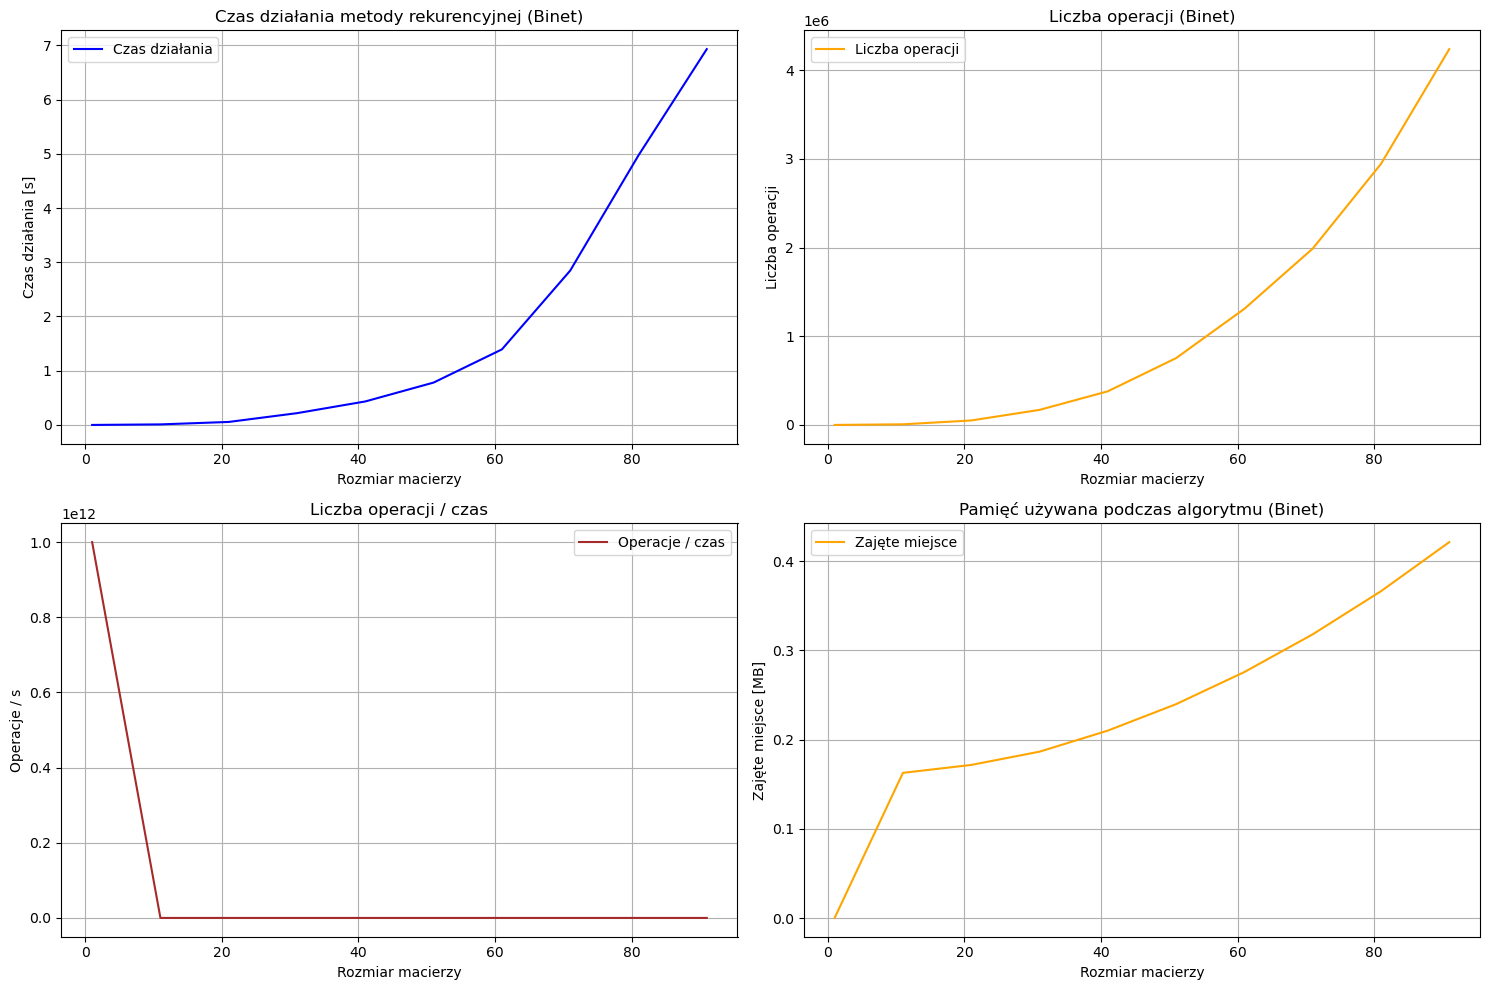
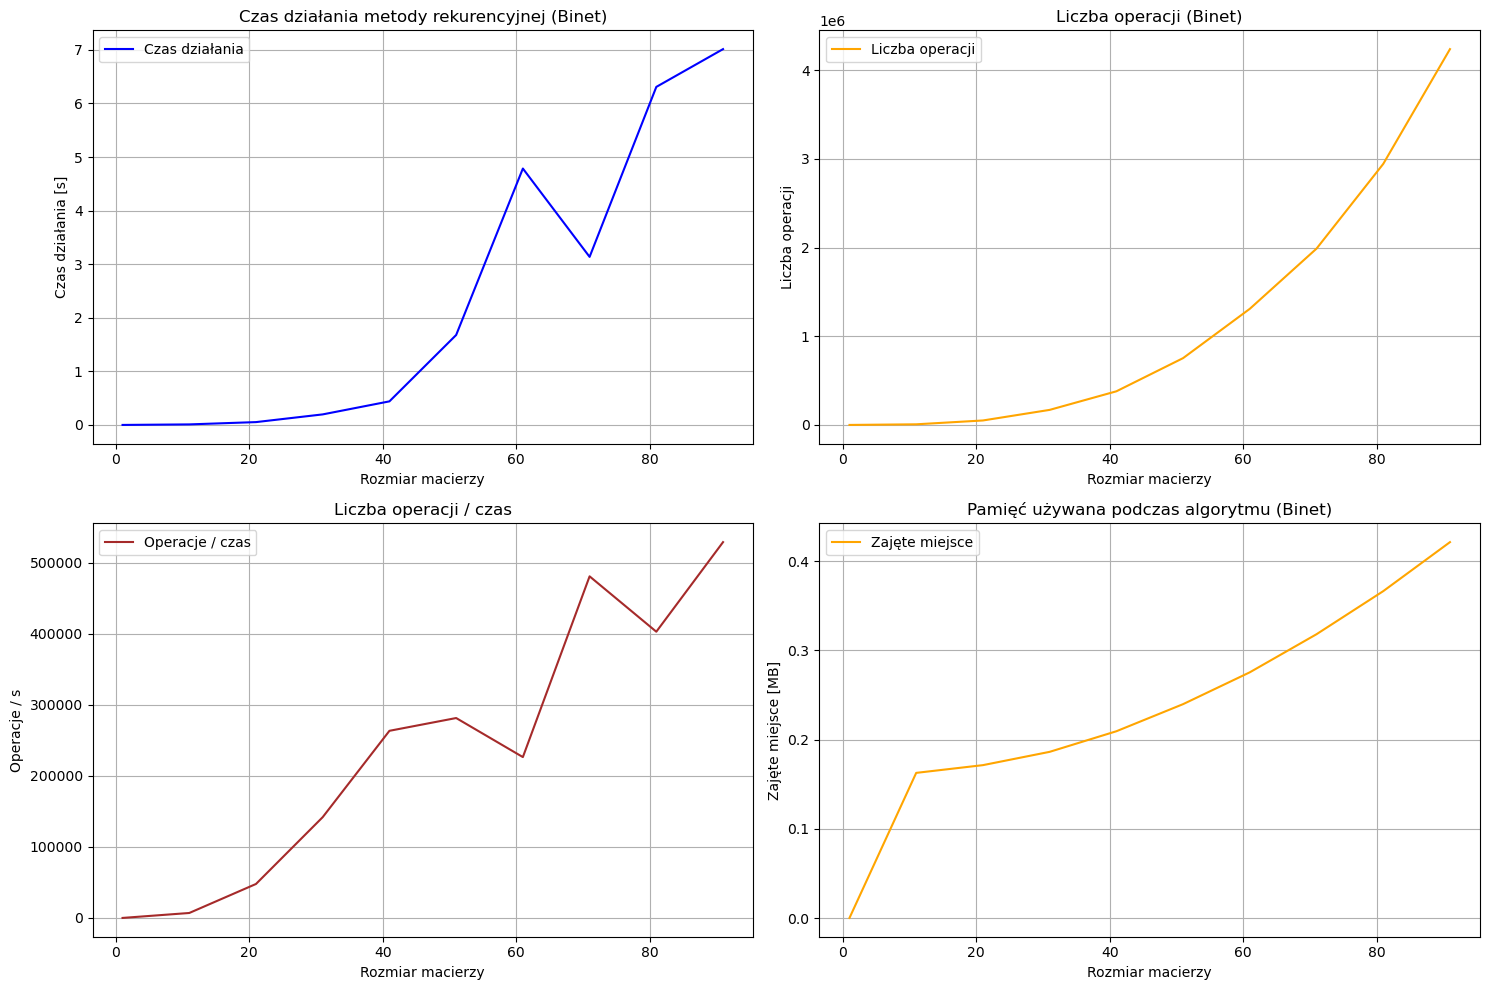
added det and fixed inverse plots

diff --git a/lab2/common.py b/lab2/common.py
@@ -80,7 +80,7 @@ def plot_all_metrics(step, time_counters, add_counters, sub_counters, mul_counte
     # Ops per time
     ops_per_time = []
     for a, s, m, t in zip(add_counters, sub_counters, mul_counters, time_counters):
-        denom = t if t > 0 else 1e-12
+        denom = t + 1
         ops_per_time.append((a + s + m) / denom)
     axs[1, 0].plot(x_values, ops_per_time, label="Operacje / czas", color='brown')
     axs[1, 0].set_xlabel("Rozmiar macierzy")

diff --git a/lab2/functions.py b/lab2/functions.py
@@ -152,3 +152,11 @@ def gaussian_elimination(A, b, mat_mul):
     x = mat_mul(U_inv, RHS)
     
     return x
+
+def determinant(A, mat_mul):
+    L, U = LU_factorization(A, mat_mul)
+    det_U = 1
+    for i in range(len(U)):
+        det_U *= U[i][i]  * L[i][i]
+
+    return det_U
